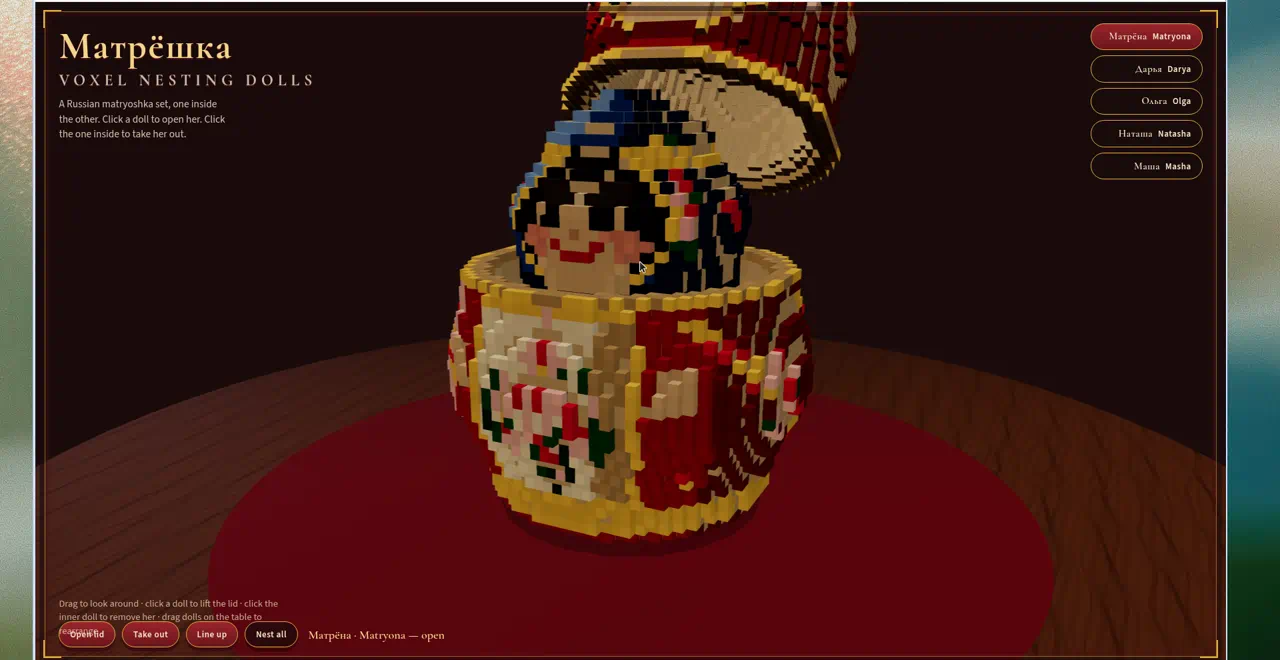
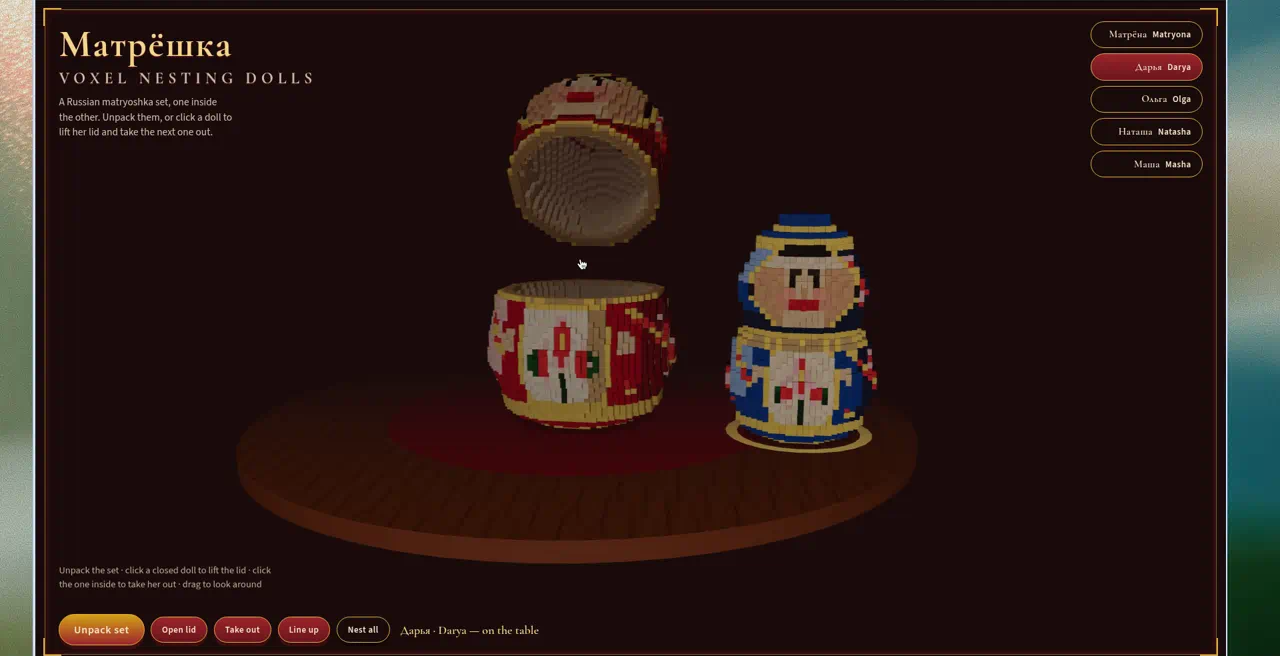
Pull the camera back and show unpack screenshots
Default view now shows a full doll, nest-all no longer zooms into
the voxels, and the README includes the lid-open and lineup shots.

diff --git a/js/viewer.js b/js/viewer.js
@@ -19,7 +19,7 @@ scene.background = new THREE.Color(0x1a0b0c);
 scene.fog = new THREE.Fog(0x1a0b0c, 110, 240);
 
 const camera = new THREE.PerspectiveCamera(40, innerWidth / innerHeight, 0.1, 500);
-camera.position.set(18, 38, 96);
+camera.position.set(22, 42, 118);
 
 const controls = new OrbitControls(camera, canvas);
 controls.enableDamping = true;
@@ -248,7 +248,7 @@ function frameVisible() {
   });
   const cx = (minx + maxx) / 2;
   const span = Math.max(40, maxx - minx + 24);
-  const dist = Math.max(88, span * 1.15 + maxh * 0.35);
+  const dist = Math.max(115, span * 1.2 + maxh * 0.7);
   targetGoal.set(cx, maxh * 0.45, 0);
   camGoal.set(cx + dist * 0.16, Math.max(32, maxh * 0.55 + 10), dist);
   autoCam = true;

diff --git a/index.html b/index.html
@@ -42,6 +42,6 @@
     }
   }
   </script>
-  <script type="module" src="js/viewer.js"></script>
+  <script type="module" src="js/viewer.js?v=3"></script>
 </body>
 </html>
